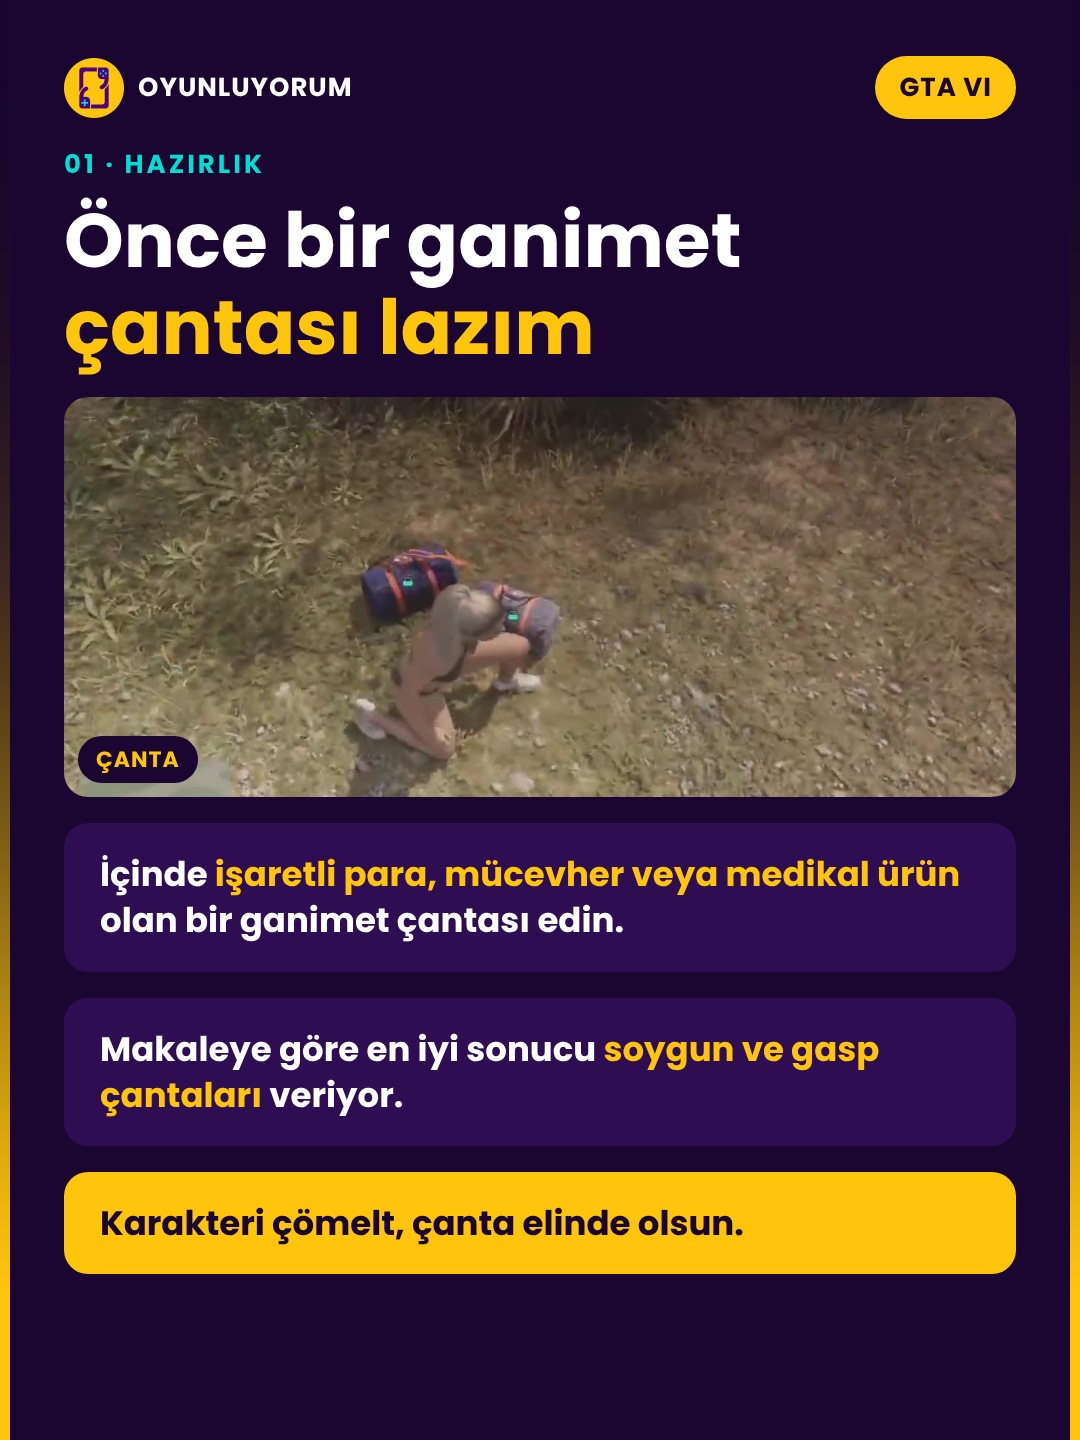
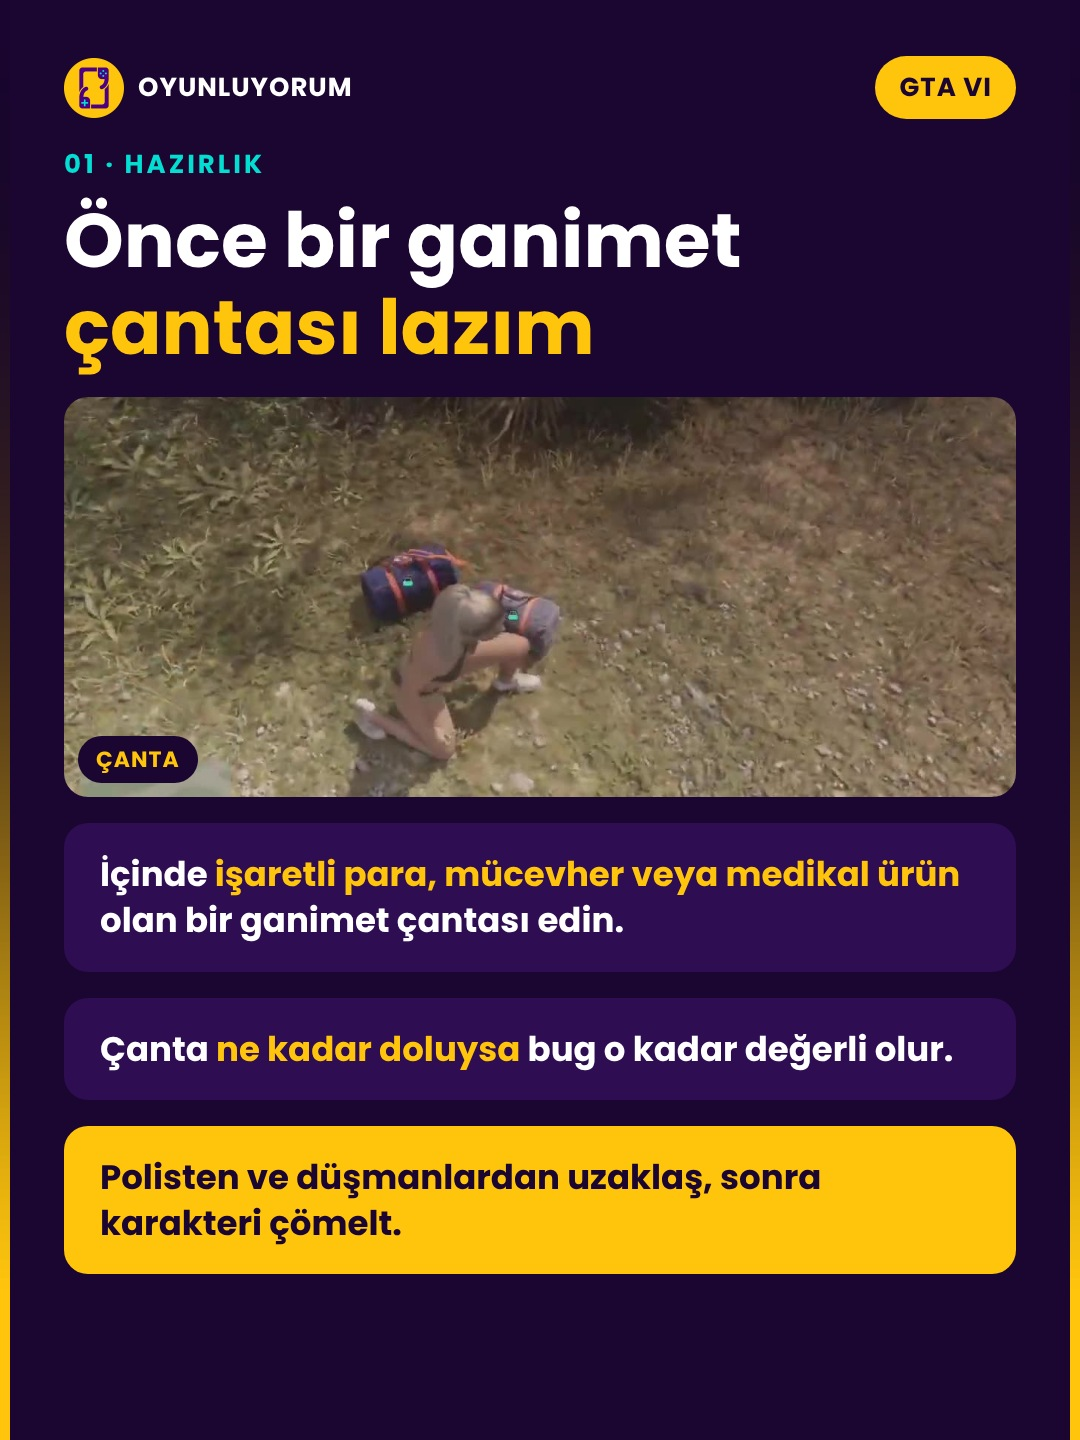
GTA 6 çanta bug karuseli: ifadeler temizlendi, Insider Gaming ve Digital Nexus ile güncellendi
Claude-Session: https://claude.ai/code/session_01Cfy9VgEXWVL5ta7MT2PpLs

Changed region(s): [[0.0611, 0.7188, 0.9472, 0.875]]

diff --git a/posts/2026-11-28-gta6-canta-bug/aciklama.md b/posts/2026-11-28-gta6-canta-bug/aciklama.md
@@ -1,14 +1,15 @@
 # GTA 6 çanta değeri katlayan bug (karusel, 6 slayt, 4. slayt video)
 
 Durum: paylaşılmadı
-Kaynaklar: GameRant (Tom Bowen, 27 Kasım 2026): https://gamerant.com/gta-6-unlimited-money-glitch-stash-bag-duplication-grand-theft-auto-6/ ; video: Xte Snow
-Not: Makaleye göre çanta yaklaşık 12 kez katlanabiliyor, sonra işe yaramaz hale geliyor. Yani "sınırsız" değil, o yüzden başlıkta kullanılmadı. "Dakikalar içinde milyonlar" iddiası doğrulanmamış. Slayt 5'teki 15.600$ → 225.600$ değerleri Xte Snow videosundaki sayaçtan. Satış noktası olarak makale Tyrone'u örnek veriyor. Yama/ban riski hakkında makalede bilgi yok.
+Kaynaklar: GameRant (27 Kasım 2026): https://gamerant.com/gta-6-unlimited-money-glitch-stash-bag-duplication-grand-theft-auto-6/ ; Insider Gaming: https://insider-gaming.com/how-to-gta-6-money-glitch-stash-bag-duplication/ ; Digital Nexus: https://digitalnexus.pl/en/gta-6/stash-bag-money-glitch/
+Not: "Sınırsız" denmedi, çünkü artış 8-12 tekrarda duruyor. Slayt 5'teki 15.600$ → 225.600$ örnek sayaç değeri (iki çantalı yöntem). Sayaç ganimetin değeri, nakit satıştan sonra geliyor. Kaydet-yükle sonrası değerin kaybolduğu bildirilmiş, yama ihtimali var.
+Video kredisi: dosya adı Xte Snow, Digital Nexus aynı rakamları Mistcool0'a atfediyor. İsim slaytta yazılmadı.
 Tuşlar: L1 > R1 > Daire (basılı). Xbox: LB > RB > B.
 
 ## Açıklama
 GTA 6'da çantanın değerini katlayan bir bug bulundu 💰
-Çömel, çantayı yere bırak, sağ analogla kamerayı çevirip çantayı tekrar al. Sol analoga dokunma! Değer her alışta artıyor, videoda 15.600$ → 225.600$.
-Sen denedin mi? 👇
+Çömel, çantayı yere bırak, sağ analogla kamerayı çevirip çantayı tekrar al. Sol analoga dokunma! Değer her alışta artıyor, yaklaşık 8-12 kez tekrarlanabiliyor.
+Rockstar yamalamadan önce denemek isteyen olur diye kaydet 👇
 Bunu GTA oynayan arkadaşına gönder.
 
 #gta6 #gtavi #gta6türkiye #gta6bug #rockstargames #oyun #oyunluyorum
